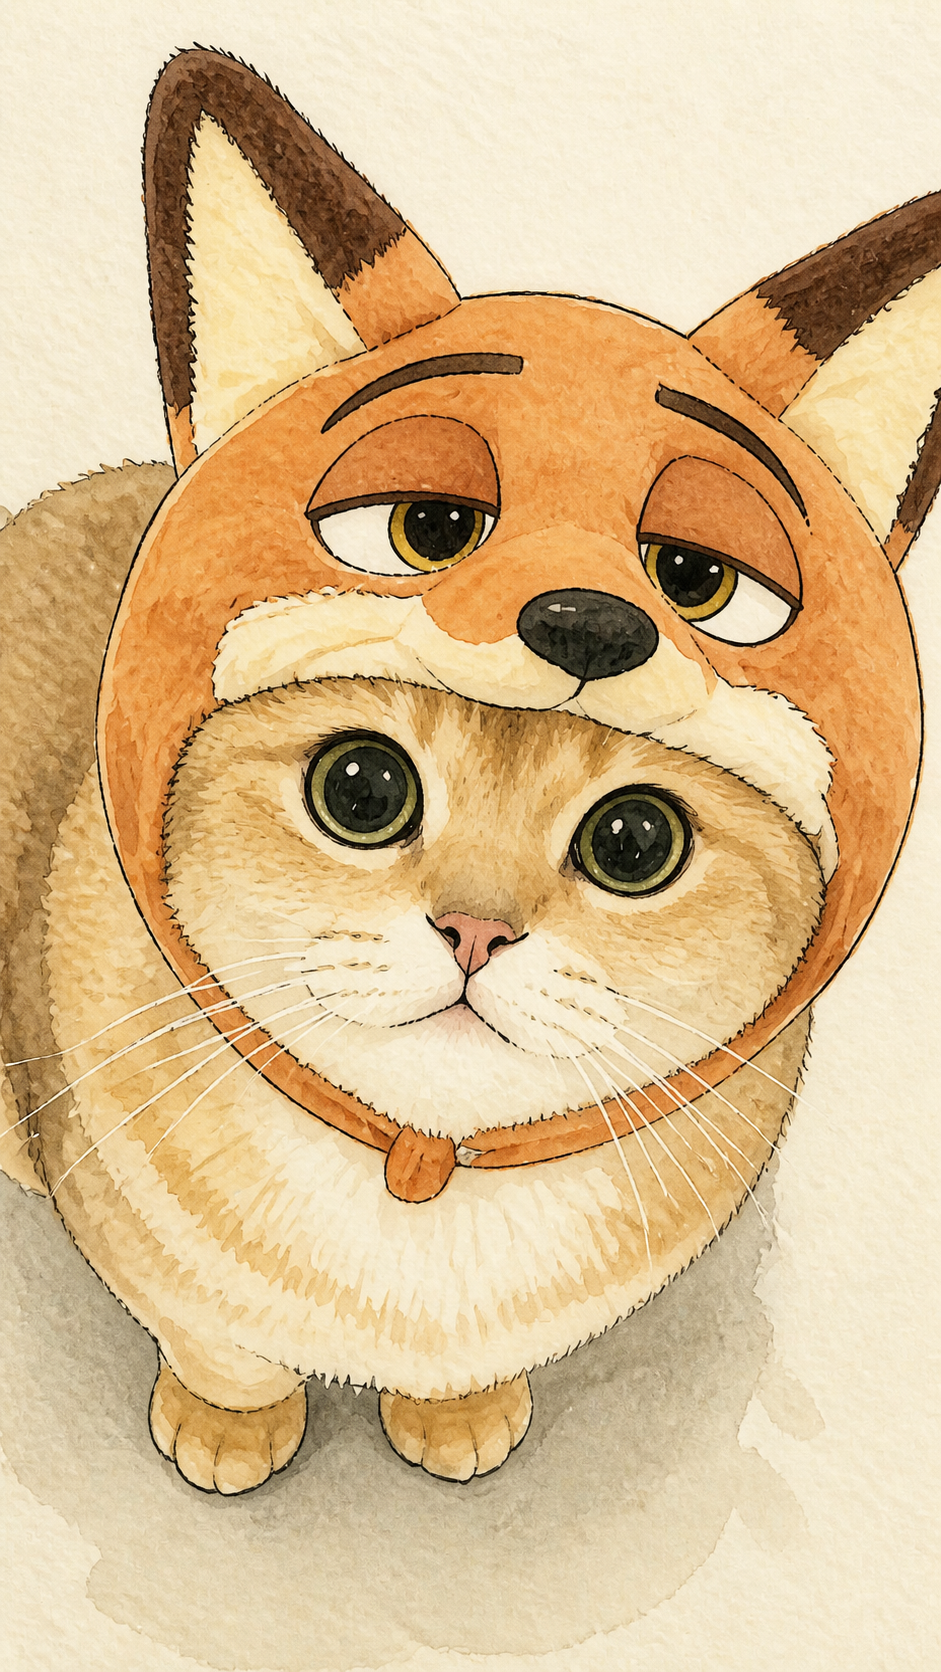
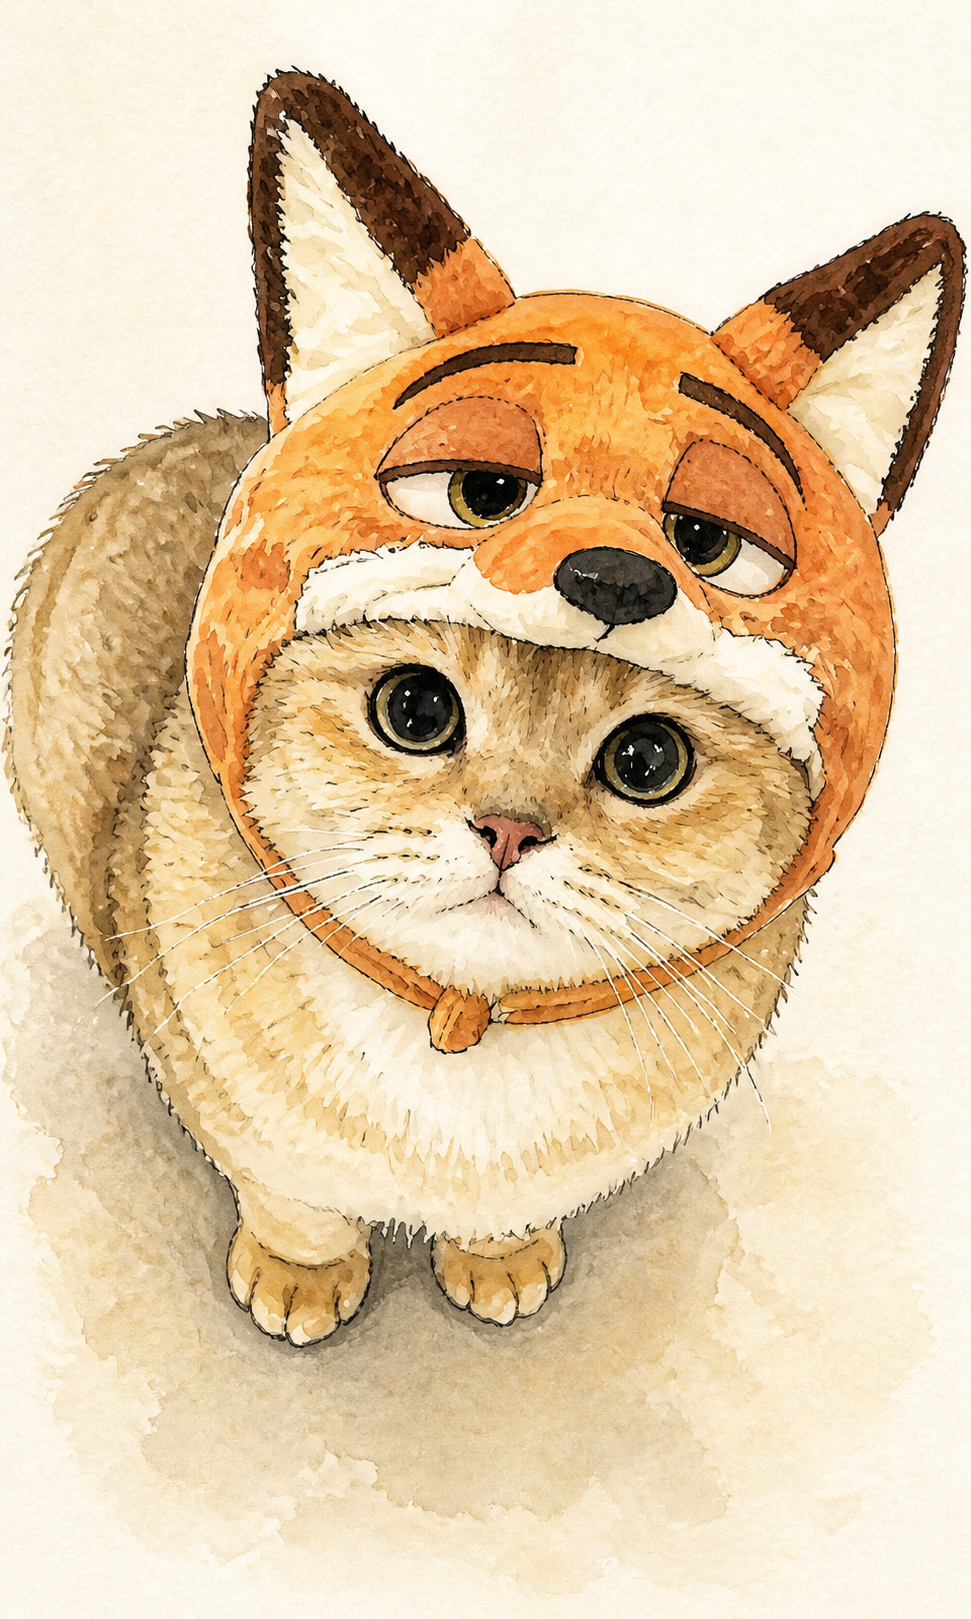
Set Photo Ink to 3:5 output

diff --git a/README.md b/README.md
@@ -2,7 +2,7 @@
 
 # Photo Ink
 
-> Transform one authorized photo into one coherent ink-and-wash illustration while retaining its composition, recognisable subjects, and source-derived colour relationships.
+> Transform one authorized photo into a fixed vertical 3:5 ink-and-wash illustration while retaining its recognisable subjects, key scene relationships, and source-derived colour relationships.
 
 [GitHub Repository](https://github.com/Lone3m-tech/smkt-photo-ink) · [简体中文](README.zh-CN.md)
 
@@ -30,15 +30,15 @@ The Skill returns one complete scene redraw. If no usable photo is provided, it 
 
 ## How it works
 
-Photo Ink is a fixed treatment, not a multi-style tool. It redraws people, animals, objects, and backgrounds in one visual language while preserving aspect ratio, composition, subject count, poses, major spatial relationships, and source-derived colour families.
+Photo Ink is a fixed treatment, not a multi-style tool. It redraws people, animals, objects, and backgrounds on a vertical 3:5 canvas in one visual language. When a source ratio differs, it uses quiet paper or setting breathing room to recompose the scene and crops only non-defining empty margins; main subjects, poses, relative scale, key scene anchors, major spatial relationships, and source-derived colour families remain.
 
 The treatment uses warm off-white paper, restrained near-black ink contours, translucent source-colour washes, and open breathing room. It has no style, palette, detail, or subject-lock controls.
 
 ## What it does
 
 - Input: one photo you are authorized to transform.
-- Output: one complete ink-and-wash illustration, not a partial filter or collage.
-- Preserves: recognisable subject features, clothing or animal markings, scene anchors, composition, and major colour relationships.
+- Output: one complete vertical 3:5 ink-and-wash illustration, not a partial filter or collage.
+- Preserves: recognisable subject features, clothing or animal markings, scene anchors, the main composition, and major colour relationships. It never crops, deletes, duplicates, or replaces a main subject to force the frame.
 - Excludes: photographic cutouts, text, labels, logos, watermarks, borders, extra subjects, and distorted anatomy.
 
 ## Use cases
@@ -62,12 +62,12 @@ Creators, content teams, and brand teams that need a consistent hand-drawn inter
 ## Core capabilities
 
 - Full-scene consistency: people, animals, objects, and backgrounds are redrawn in one ink-and-wash language.
-- Source relationships first: the treatment preserves aspect ratio, composition, subject count, poses, major spatial relationships, and source-derived colours.
+- Source relationships first: the treatment fixes the output at vertical 3:5 while retaining subject count, poses, relative scale, major spatial relationships, and source-derived colours; only quiet breathing room or non-defining empty margins adapt the frame.
 - Recognisable interpretation: silhouettes, clothing, markings, and scene anchors support recognition without pixel-level copying.
 
 ## Complete demo
 
-The included pairs are owner-approved examples. The source photos were authorized for this demonstration; the Ink results are AI-generated examples. They show the intended fixed treatment, not a guarantee for every image, model, or host.
+The included pairs are owner-approved examples. The source photos were authorized for this demonstration; the fixed vertical 3:5 Ink results are AI-generated examples. They show the intended treatment, not a guarantee for every image, model, or host.
 
 | Source | Ink result |
 | --- | --- |

diff --git a/SKILL.md b/SKILL.md
@@ -9,7 +9,7 @@ Turn the uploaded photograph into one coherent, full-scene editorial illustratio
 
 ## Fixed treatment
 
-- Preserve the source image’s aspect ratio, composition, subject count, poses, relative scale, and major left/right/top/bottom relationships.
+- Deliver every result on a vertical 3:5 canvas. When the source ratio differs, recompose the illustration to fit it: retain all main subjects, their poses, relative scale, key scene anchors, and major left/right/top/bottom relationships; add quiet paper or setting breathing room as needed, and crop only non-defining empty margins. Never crop, delete, duplicate, or replace a main subject to force the frame.
 - Keep the main people, animals, or objects recognisable through their silhouette, defining features, clothing, markings, and visible colours. This is a hand-drawn interpretation, not pixel-identical preservation.
 - Preserve the source photo’s colour families and their relationships as muted, translucent washes. Do not substitute a brand palette or add a brand-colour accent.
 - Use a warm off-white, lightly textured paper ground; restrained near-black irregular ink contours; quiet watercolour/ink washes; and open, breathing light areas.
@@ -31,7 +31,7 @@ The delivered image is a complete, recognisable ink-and-wash interpretation with
 
 Use this core after the source-specific scene map:
 
-> Transform the supplied photo into one coherent, complete hand-drawn editorial illustration. Preserve its aspect ratio, composition, subject count, poses, scale, major spatial relationships, and source-derived colour families. Render every person, animal, object, and background element in the same clean ink-and-wash language: warm off-white lightly textured paper, muted translucent source-colour washes, and a few restrained irregular near-black contours. Keep the main subjects recognisable but deliberately simplified; do not leave any photographic cutout, photorealistic face, or realistic clothing. Preserve major scene anchors, but group repeated detail into quiet shapes and selective lines with generous breathing room.
+> Transform the supplied photo into one coherent, complete hand-drawn editorial illustration on a vertical 3:5 canvas. Recompose only to fit that canvas: preserve all main subjects, their poses, relative scale, key scene anchors, major spatial relationships, and source-derived colour families; add quiet paper or setting breathing room as needed, and crop only non-defining empty margins. Never crop, delete, duplicate, or replace a main subject to force the frame. Render every person, animal, object, and background element in the same clean ink-and-wash language: warm off-white lightly textured paper, muted translucent source-colour washes, and a few restrained irregular near-black contours. Keep the main subjects recognisable but deliberately simplified; do not leave any photographic cutout, photorealistic face, or realistic clothing. Preserve major scene anchors, but group repeated detail into quiet shapes and selective lines with generous breathing room.
 
 ## Error handling and minimal change
 

diff --git a/README.zh-CN.md b/README.zh-CN.md
@@ -2,7 +2,7 @@
 
 # Photo Ink
 
-> 将一张有权使用的照片整体重绘为统一的水墨水彩插画，保留构图、主体可辨认特征与来源色彩关系。
+> 将一张有权使用的照片整体重绘为固定竖版 3:5 的统一水墨水彩插画，保留主体可辨认特征、关键场景关系与来源色彩关系。
 
 [GitHub 仓库](https://github.com/Lone3m-tech/smkt-photo-ink) · [English](README.md)
 
@@ -30,15 +30,15 @@
 
 ## 如何工作
 
-这不是多风格工具。它以固定处理把画面中的人物、动物、物件与背景一起重绘，保留来源图的长宽比、构图、主体数量、姿势、相对位置与主要色彩关系。
+这不是多风格工具。它以固定处理把画面中的人物、动物、物件与背景一起重绘为竖版 3:5。来源图比例不同时，画面以安静的纸面或场景延展重新适配，只裁掉无定义意义的空白边缘；主体、姿势、相对位置、关键场景锚点与主要色彩关系都会保留。
 
 画面使用干净的浅白纸张、克制的近黑墨线和半透明的原图色系水彩，并保留足够留白。它不提供风格、配色、细节等级或主体锁定开关。
 
 ## 它做什么
 
 - 输入：一张用户提供且有权使用的照片。
-- 输出：一张完整重绘的水墨水彩插画，不是局部滤镜或拼贴。
-- 重点保留：主体的可辨认特征、服装或动物花纹、场景锚点，以及来源图的构图与主要色彩关系。
+- 输出：一张固定竖版 3:5 的完整水墨水彩重绘图，不是局部滤镜或拼贴。
+- 重点保留：主体的可辨认特征、服装或动物花纹、场景锚点、主要构图与来源图的主要色彩关系；不会为了画幅裁掉、删除、复制或替换主体。
 - 明确排除：遗留写实人物、动物、物件或背景切片；文字、标签、Logo、水印与边框。
 
 ## 用在哪些场景
@@ -62,12 +62,12 @@
 ## 核心能力
 
 - 全场景一致：人物、动物、物件与背景都进入同一种水墨水彩语言。
-- 原图关系优先：不任意改变长宽比、构图、主体数量、姿势、相对关系或来源色彩家族。
+- 原图关系优先：固定输出竖版 3:5，不任意改变主体数量、姿势、相对关系或来源色彩家族；仅以留白或无定义空白边缘适配画幅。
 - 可辨认而非像素复刻：通过轮廓、服装、动物花纹与场景锚点维持识别特征。
 
 ## 完整 Demo
 
-以下四组为使用者确认的 Demo。来源照片已获用于该展示的授权，Ink 结果均为 AI 生成示例。它们展示固定处理的预期效果，不保证其他图片、模型或宿主得到相同结果。
+以下四组为使用者确认的 Demo。来源照片已获用于该展示的授权，Ink 结果均为固定竖版 3:5 的 AI 生成示例。它们展示固定处理的预期效果，不保证其他图片、模型或宿主得到相同结果。
 
 | 来源图 | Ink 结果 |
 | --- | --- |
